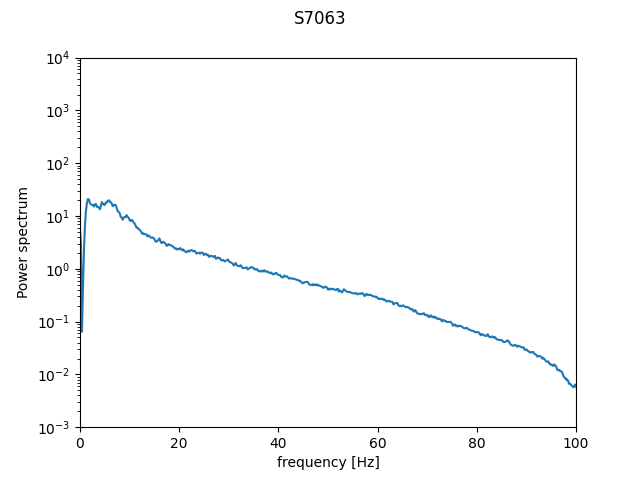
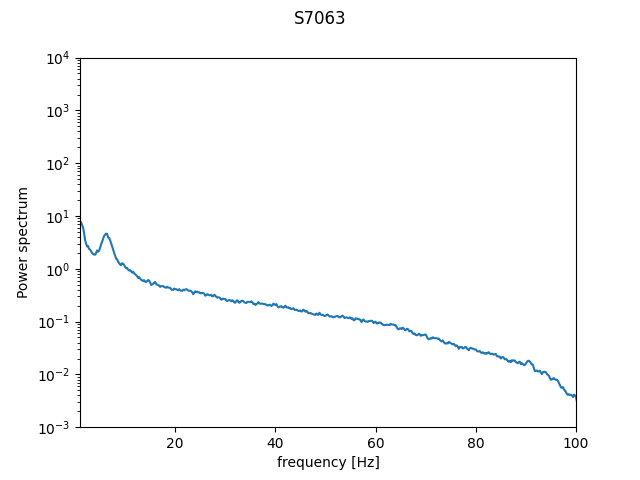
butterworth filter and changed file path of image plots

diff --git a/all_datasets.py b/all_datasets.py
@@ -31,7 +31,7 @@ small_dfs_two_brainstates = []
 for i in range(len(animal_number_two_brainstates)-1):
     animal_number = animal_number_two_brainstates[i]
     print(animal_number)
-    data_baseline1, data_baseline2, brain_state_1, brain_state_2, time_1, time_2 = loading_analysis_files(path, animal_number, starting_times_dict, channel_number=4)
+    data_baseline1, data_baseline2, brain_state_1, brain_state_2, time_1, time_2 = loading_analysis_files(path, animal_number, starting_times_dict, channel_number=9)
     REM_1_timevalues = brainstate_times(brain_state_1, 2)
     REM_2_timevalues = brainstate_times(brain_state_2, 2)
     REM_1_filtered = highpass(data_baseline1)
@@ -69,19 +69,20 @@ for i in range(len(animal_number_two_brainstates)-1):
     fig = plt.figure()
     plt.semilogy(frequency, average_p)
     plt.xlabel('frequency [Hz]')
-    plt.xlim(0,100)
+    plt.xlim(1,100)
     plt.ylim(10**-3, 10**4)
     plt.ylabel('Power spectrum')
     fig.suptitle(animal_number)
-    #fig.savefig(animal_number)
-    #plt.show()
+    os.chdir('/home/melissa/psd_plots_december21')
+    fig.savefig(animal_number + 'average')
+    plt.show()
     small_dfs_two_brainstates.append(df_1)
     animal_number = [i+1]
     
 
 #last animal not included in loop
 animal_number = animal_number_two_brainstates[-1]
-data_baseline1, data_baseline2, brain_state_1, brain_state_2, time_1, time_2 = loading_analysis_files(path, animal_number, starting_times_dict, channel_number=4)
+data_baseline1, data_baseline2, brain_state_1, brain_state_2, time_1, time_2 = loading_analysis_files(path, animal_number, starting_times_dict, channel_number=9)
 REM_1_timevalues = brainstate_times(brain_state_1, 2)
 REM_2_timevalues = brainstate_times(brain_state_2, 2)
 REM_1_filtered = highpass(data_baseline1)
@@ -120,8 +121,9 @@ plt.xlim(0,100)
 plt.ylim(10**-3, 10**4)
 plt.ylabel('Power spectrum')
 fig.suptitle(animal_number)
-#fig.savefig(animal_number)
-#plt.show()
+os.chdir('/home/melissa/psd_plots_december21')
+fig.savefig(animal_number + 'average')
+plt.show()
 small_dfs_two_brainstates.append(df_lastvalue)
 
 
@@ -129,9 +131,10 @@ small_dfs_one_brainstate = []
 
 for i in range(len(animal_number_one_brainstate)-1):
     animal_number = animal_number_one_brainstate[i]
-    data_baseline1, brain_state_1, time_1 = loading_analysis_files_onebrainstate(path, animal_number, starting_times_dict, channel_number=4)
+    data_baseline1, brain_state_1, time_1 = loading_analysis_files_onebrainstate(path, animal_number, starting_times_dict, channel_number=9)
     REM_1_timevalues = brainstate_times(brain_state_1, 2)
-    REM_1_datavalues = channel_data_extraction(REM_1_timevalues, data_baseline1)
+    REM_1_filtered = highpass(data_baseline1)
+    REM_1_datavalues = channel_data_extraction(REM_1_timevalues, REM_1_filtered)
     REM_1_withoutartifacts = remove_noise(REM_1_datavalues)
     psd_REM_1, frequency = psd_per_channel(REM_1_withoutartifacts)
     psd_average_1 = psd_average(psd_REM_1, frequency, animal_number)
@@ -155,9 +158,10 @@ for i in range(len(animal_number_one_brainstate)-1):
 
 animal_number = animal_number_one_brainstate[-1]
 print(animal_number)
-data_baseline1, brain_state_1, time_1 = loading_analysis_files_onebrainstate(path, animal_number, starting_times_dict, channel_number=4)
+data_baseline1, brain_state_1, time_1 = loading_analysis_files_onebrainstate(path, animal_number, starting_times_dict, channel_number=9)
 REM_1_timevalues = brainstate_times(brain_state_1, 2)
-REM_1_datavalues = channel_data_extraction(REM_1_timevalues, data_baseline1)
+REM_1_filtered = highpass(data_baseline1)
+REM_1_datavalues = channel_data_extraction(REM_1_timevalues, REM_1_filtered)
 REM_1_withoutartifacts = remove_noise(REM_1_datavalues)
 psd_REM_1, frequency = psd_per_channel(REM_1_withoutartifacts)
 psd_average_1 = psd_average(psd_REM_1, frequency, animal_number)
@@ -179,19 +183,22 @@ small_dfs_one_brainstate.append(df_lastvalue)
 
 
 '''checking last df is the last animal in list'''
-print(small_dfs_one_brainstate)
-print(small_dfs_two_brainstates[7])
+print(len(small_dfs_one_brainstate))
+print(len(small_dfs_two_brainstates))
 
 
 large_dfs_two_brainstates = pd.concat([small_dfs_two_brainstates[0], small_dfs_two_brainstates[1],
                                       small_dfs_two_brainstates[2], small_dfs_two_brainstates[3],
                                       small_dfs_two_brainstates[4], small_dfs_two_brainstates[5],
-                                      small_dfs_two_brainstates[6], small_dfs_two_brainstates[7]], ignore_index=True)
+                                      small_dfs_two_brainstates[6], small_dfs_two_brainstates[7],
+                                      small_dfs_two_brainstates[8], small_dfs_two_brainstates[9],
+                                      small_dfs_two_brainstates[10]], ignore_index=True)
  
 
 large_dfs_one_brainstate = pd.concat([small_dfs_one_brainstate[0], small_dfs_one_brainstate[1],
                                     small_dfs_one_brainstate[2], small_dfs_one_brainstate[3],
-                                    small_dfs_one_brainstate[4]],ignore_index=True)
+                                    small_dfs_one_brainstate[4], small_dfs_one_brainstate[5],
+                                    small_dfs_one_brainstate[6]],ignore_index=True)
 
 os.chdir('/home/melissa/all_taini_melissa/')
 large_dfs_one_brainstate.to_pickle('one_mean_REM.pkl')

diff --git a/preprocessing.py b/preprocessing.py
@@ -1,54 +1,80 @@
-#plot animals to look for strange artifacts
+#convert .dat files to numpy files and reformat brain states
 
+from datetime import date
 import os 
 import mne 
 import numpy as np 
-from psd_taini_mainfunctions import starting_times_dict
+import pandas as pd
 
-path =  '/home/melissa/preprocessing/numpyformat'
-animal_number = 'S7063'
+#1. function to save .dat files as numpy files 
+
+#path to file with .dat file and other required variables 
+os.chdir('/home/melissa/S7094')
+og_fn = 'TAINI_1048_S7094-B-2021_06_15-0000.dat'
+save_as = 'TAINI_S7094_BASELINE.npy'
 
 
-def plot_all_channels(path, animal_number):
-    
-    files=[]
+def dat_to_numpy(fn, saveas):
+    number_of_channels = 16
+    sample_rate = 250.4
+    display_decimation = 1
+
+    #reshape the 2D per channel data 
+    dt = 'int16'
+    data_raw = np.fromfile(fn, dtype=dt)
+    step = number_of_channels*display_decimation
+    dat_chans = [data_raw[c::step] for c in range(number_of_channels)]
+    data = np.array(dat_chans)
+    os.chdir('/home/melissa/preprocessing/numpyformat')
+    np.save(saveas, data)
+
+    return 
+
+
+#dat_to_numpy(og_fn, save_as)
+
+
+#2. Reformat brain states
+
+
+def reformat_brainstates(path):
+    #brain_1 = animal_number + '_BL1'
+    #brain_2 = animal_number + '_BL2'
+
+    animal_numbers_reformat_brainstates = ['63', '64', '68', '69', '70', '71', '72',
+                                        '74', '75', '76', '83', '86', '88', '91',
+                                        '92', '94', '96', '98', '101']
+
+    files = []
 
     for r, d, f in os.walk(path):
-            for file in f:
+        for file in f:
+            for animal_number in animal_numbers_reformat_brainstates:
                 if animal_number in file:
                     files.append(os.path.join(r, file))
 
-    print(files)
+    for f in files:
+        print(f)
 
-    for x in files:
-        if x.endswith('npy'):
-            data = np.load(x)
-    
-    global time
-    for animal_id in starting_times_dict:
-        starting_1 = animal_number + '_1'
-        if animal_id == starting_1:
-            time = starting_times_dict[animal_id]
-    
-    print(data)
+    for y in files:
+        if y.endswith('States-real samp.xls'):
+            load_file = pd.read_excel(y)
+            print(load_file)
+            #load_file.columns = (['brainstate', 'old_start_epoch', 'old_end_epoch']) #rename columns
+            #load_file.shift(1, axis = 0) #shift rows down by one
+            #load_file.loc[0] = [0, 0, 5] #add new time bin for row one
+            #load_file.astype(int) #convert float vlaues to integers
+            #load_file.drop(["old_start_epoch", "old_end_epoch"], axis=1, inplace=True) #delete columns
+            #x = len(load_file)*5
+            #z = x + 5
+            #load_file.insert(loc =1, column = 'start_epoch', value=list(range(0, x, 5)))
+            #load_file.insert(loc=2, column = 'end_epoch', value=list(range(5,z,5)))
+            
+            os.chdir('/home/melissa/brain_states')
+            #load_file.to_pickle(y)
 
-    os.chdir('/home/melissa//Documents/EEG_Coherence-master/EEG_Coherence-master/')
-    montage_name = 'standard_16grid_taini1.elc'
-    montage = mne.channels.read_custom_montage(montage_name)
-    sample_rate = 250.4
-    channel_types = ['eeg', 'eeg', 'eeg', 'eeg','eeg', 'eeg', 'eeg', 'eeg',
-                    'eeg', 'eeg', 'eeg', 'eeg','eeg', 'eeg', 'emg', 'emg']
+    return y
 
-    ch_names = ['S1Tr_RIGHT', 'M2_FrA_RIGHT', 'M2_ant_RIGHT', 'M1_ant_RIGHT', 
-                'V2ML_RIGHT', 'V1M_RIGHT', 'S1HL_S1FL_RIGHT', 'V1M_LEFT', 
-                'V2ML_LEFT','S1HL_S1FL_LEFT', 'M1_ant_LEFT', 'M2_ant_LEFT',
-                'M2_FrA_LEFT', 'S1Tr_LEFT', 'EMG_RIGHT', 'EMG_LEFT']
-    
-    ch_numbers = [0,1,2,3,4,5,6,7,8,9,10,11,12,13,14,15]
-
-    info = mne.create_info(ch_names, sfreq = sample_rate, ch_types = channel_types)
- 
-    custom_raw = mne.io.RawArray(data, info)
-    print(custom_raw)
-
-    return custom_raw
+os.chdir('/home/melissa/brain_states_unformatted')
+path = '/home/melissa/brain_states_unformatted'
+reformat_brainstates(path)

diff --git a/psd_taini_mainfunctions.py b/psd_taini_mainfunctions.py
@@ -93,7 +93,7 @@ def loading_analysis_files(path, animal_number, starting_times_dict, channel_num
     
 
     #finding start times for specific animal from start_times dictionary 
-
+    global animal_id
     for animal_id in starting_times_dict:
         if animal_id == starting_1:
             global time_1
@@ -329,11 +329,12 @@ def psd_average(psd_per_channel,frequency, animal_number):
     fig = plt.figure()
     plt.semilogy(frequency, mean_values)
     plt.xlabel('frequency [Hz]')
-    plt.xlim(0,100)
+    plt.xlim(1,100)
     plt.ylim(10**-3, 10**4)
     plt.ylabel('Power spectrum')
     fig.suptitle(animal_number)
-    fig.savefig(animal_number)
+    os.chdir('/home/melissa/psd_plots_december21')
+    fig.savefig(animal_number + animal_id)
     plt.show()
 
 
